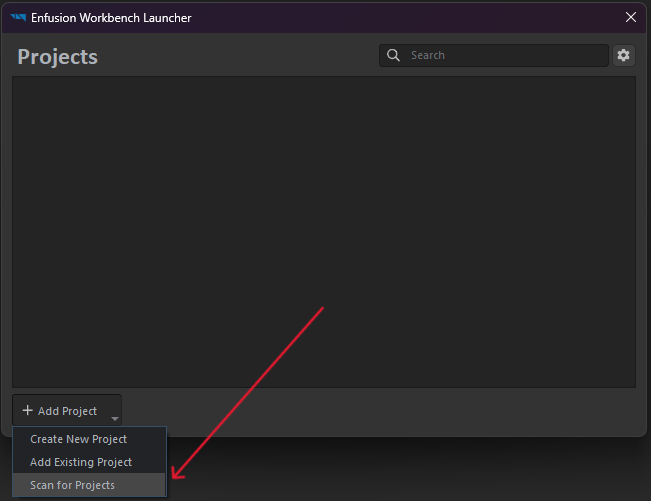
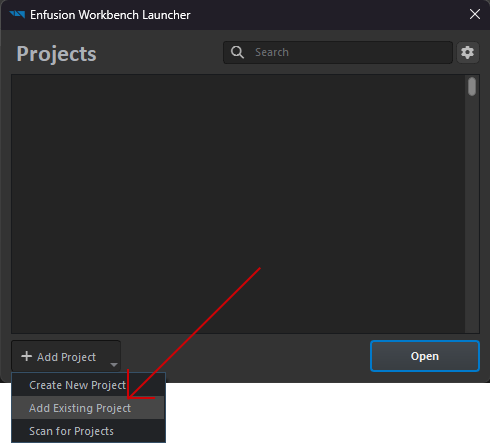
updated tutorial README, add chapter about dependencies

diff --git a/tutorial/README.md b/tutorial/README.md
@@ -2,7 +2,8 @@
 
 To create a new radio station, you need to do the following:
 
-- [Tutorial to create your own](#tutorial-to-create-your-own)
+- [Tutorial to create your own radio station](#tutorial-to-create-your-own-radio-station)
+  - [Adding dependencies](#adding-dependencies)
   - [Project creation](#project-creation)
   - [Duplicating audio project file](#duplicating-audio-project-file)
   - [Adding music tracks](#adding-music-tracks)
@@ -11,15 +12,31 @@ To create a new radio station, you need to do the following:
   - [Testing](#testing)
   - [Publishing](#publishing)
 
-## Project creation
+## Adding dependencies
 
-You need to create a new Project in Arma Reforger Tools
+Download Project Sonar from the workshop.
+
+<picture><img src="./images/0.png" alt="image-0.png" style="width:auto; height: 200px"></picture>
+
+Then find the folder with your mods. By default it is:
+
+<code>%UserProfile%\Documents\My Games\ArmaReforger\profile\addons</code>
+
+if you didnt change it.
+
+You need to add two mods as existed project in Arma Reforger Tools.
 
 <picture><img src="./images/1.png" alt="image-1.png" style="width:auto; height: 300px"></picture>
-<picture><img src="./images/2.png" alt="image-2.png" style="width:auto; height: 300px"></picture>
 
 > [!IMPORTANT]
-> Add ProjectSonarRadio as a dependency.
+> Add **CarRadio4All_621D3771875C1D3D** and **ProjectSonar-RadioStations_62E354B50264C08F**.
+
+## Project creation
+
+You need to create a new Project in Arma Reforger Tools and add **ProjectSonarRadio** and **CarStereo1986** as a dependecnies.
+
+
+<picture><img src="./images/2.png" alt="image-2.png" style="width:auto; height: 300px"></picture>
 
 > [!TIP]
 > You can also see more information about creating a project at [BI wiki](https://community.bohemia.net/wiki/Arma_Reforger:Mod_Project_Setup).
